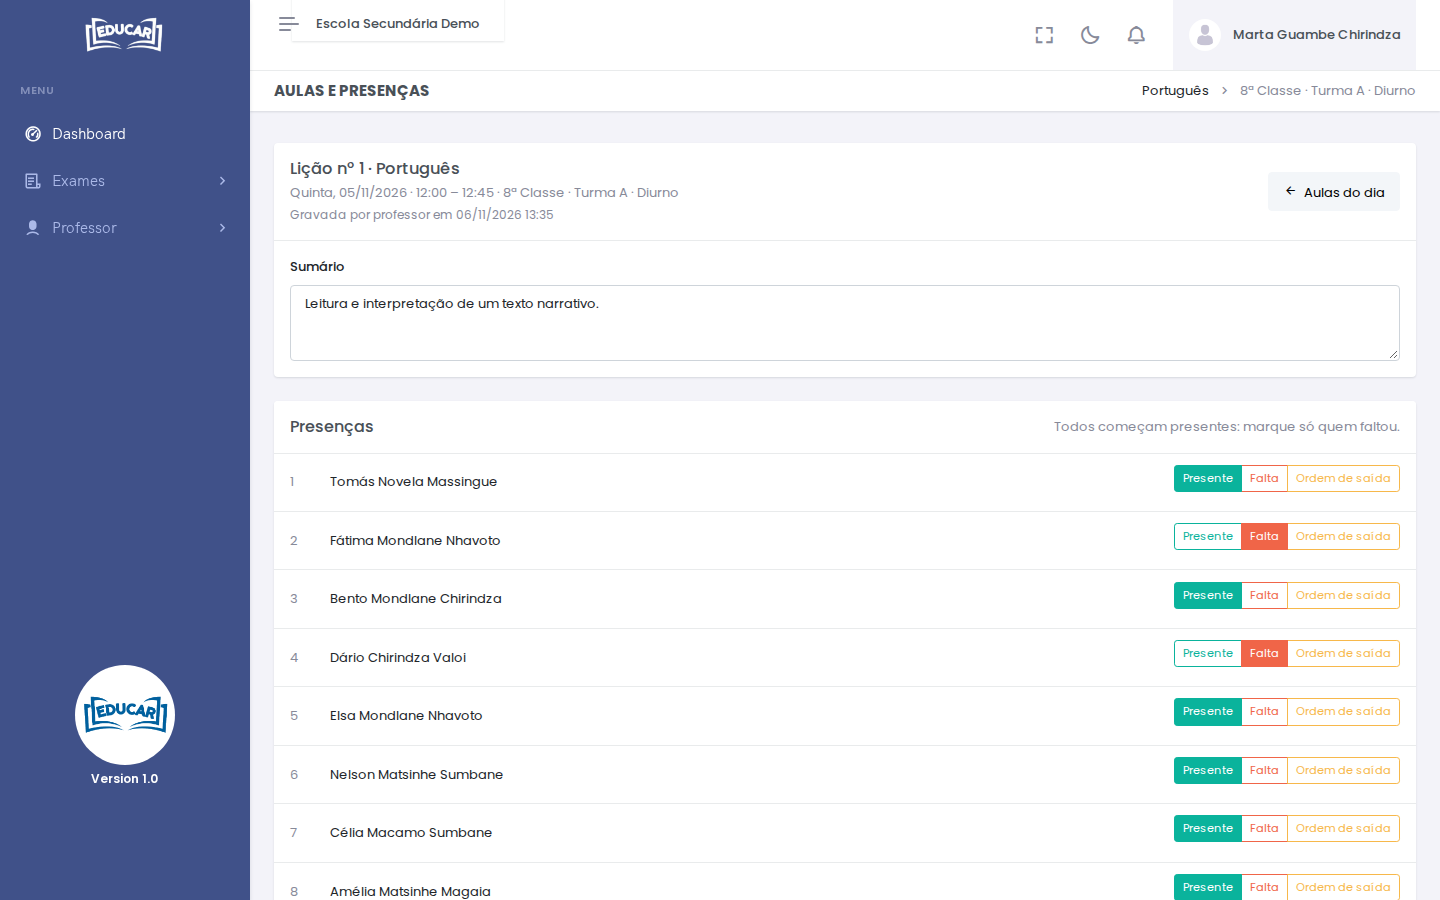
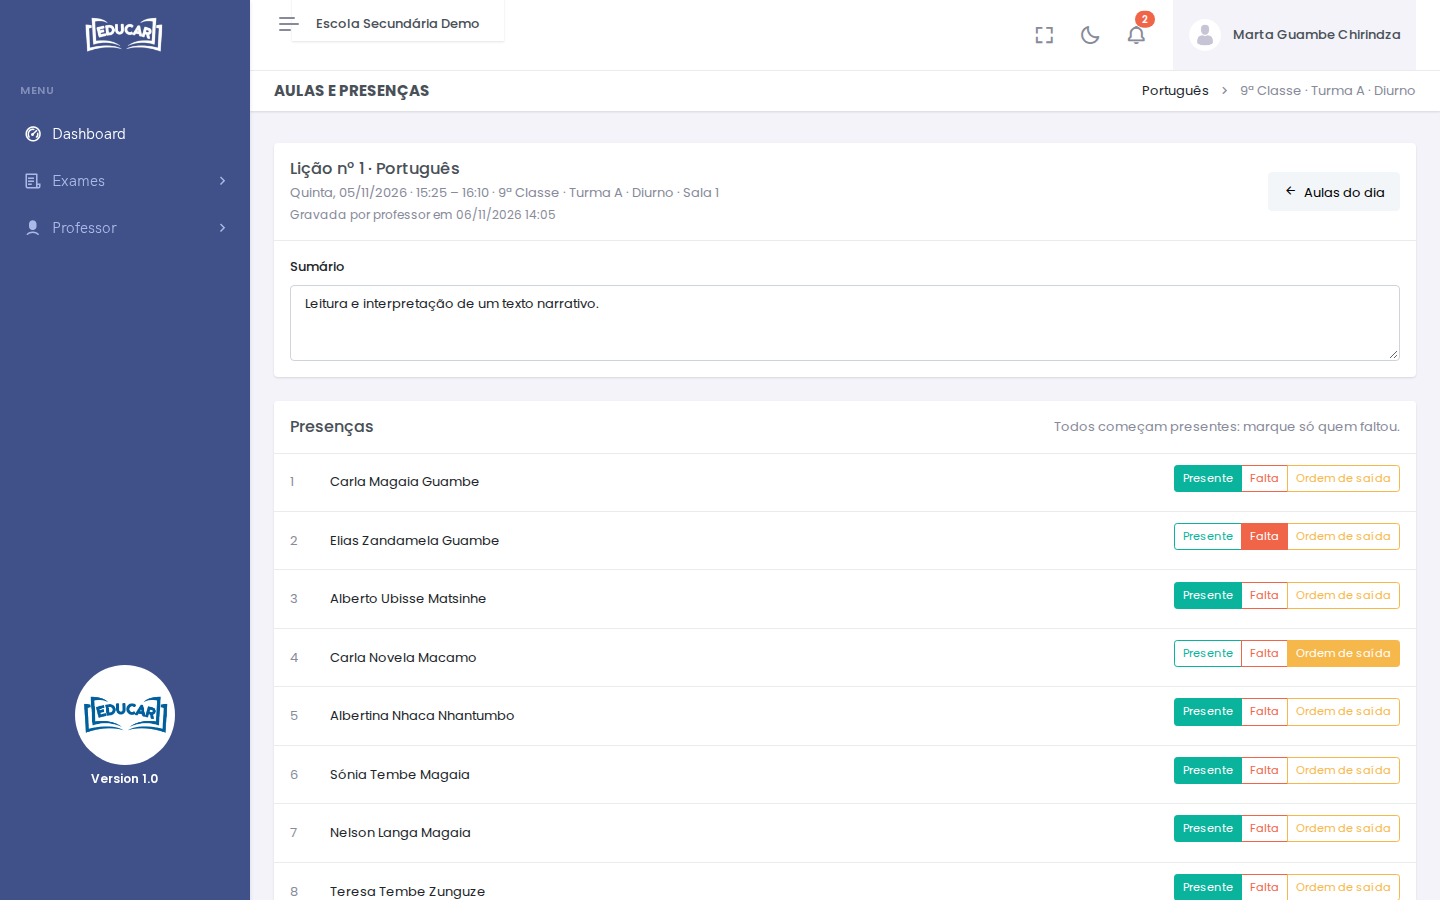
Faltas: limits, justification in the student file and class director view

diff --git a/docs/menus/matricula-e-turmas/pesquisar-turma.md b/docs/menus/matricula-e-turmas/pesquisar-turma.md
@@ -27,6 +27,7 @@ O topo mostra os dados do aluno e o resumo das contas: por pagar, em atraso, val
 | **Pagamentos** | Pagamentos feitos, com o recibo |
 | **Documentos** | Pedidos de documentos do aluno (veja [Pedidos de documentos](../documentos/pedidos-de-documentos.md#registar-um-pedido)) |
 | **Situação pedagógica** | Médias dos trimestres e fecho do ano do aluno |
+| **Faltas** | Faltas do aluno no ano, por disciplina; a secretaria justifica-as (veja [Faltas do aluno](#faltas-do-aluno)) |
 | **Encarregados** | Contas de encarregado ligadas ao aluno, para acompanhar na [app](../../primeiros-passos/app.md) (veja [Ligar um encarregado](#ligar-um-encarregado)) |
 
 ![A conta do documento na ficha do aluno](../documentos/img/ficha-pagar.png)
@@ -76,6 +77,24 @@ Para retirar o acesso, por exemplo quando o encarregado muda, use **Desligar** n
 O telemóvel de uma conta não se altera. Se o encarregado mudar de número, desligue a conta antiga e crie uma com o número novo, em cada um dos educandos.
 
 Se o encarregado se esquecer da senha, recupera-a no site do EDUCAR, em **Esqueceu a senha?**, com o telemóvel no lugar do código e os seus dados pessoais. A app ainda não tem esta opção.
+
+### Faltas do aluno
+
+O separador **Faltas** mostra as faltas que os professores marcaram em [Aulas e presenças](../professor/aulas-e-presencas.md): os totais, as faltas por disciplina com os [limites da escola](../configuracoes/faltas.md), e a lista de cada falta com a data, a hora e a disciplina.
+
+![Faltas na ficha do aluno](img/ficha-faltas.png)
+
+Para justificar, com o atestado ou o motivo que a família apresentar:
+
+1. Marque as faltas a justificar.
+2. Escreva o **Motivo**, por exemplo `Atestado médico`.
+3. Use **Justificar as escolhidas**.
+
+As faltas justificadas deixam de contar para os limites. As ordens de saída não se justificam. Para desfazer, marque as faltas e use **Tirar a justificação**.
+
+Só a secretaria justifica. A direcção vê as faltas, mas não as justifica.
+
+Se o professor corrigir a aula e mudar uma falta para ordem de saída, ou ao contrário, essa falta perde a justificação.
 
 ## Horário da turma
 

diff --git a/docs/menus/configuracoes/faltas.md b/docs/menus/configuracoes/faltas.md
@@ -1,0 +1,32 @@
+# Faltas
+
+**Menu:** Configurações › Faltas
+**Quem vê:** Director da escola, Director pedagógico
+
+Os limites de faltas da escola e os avisos aos encarregados. Os professores marcam as faltas em [Aulas e presenças](../professor/aulas-e-presencas.md): cada tempo de aula conta como uma presença.
+
+![Limites de faltas](img/faltas.png)
+
+## Limites
+
+- **Limite por disciplina:** quantas faltas um aluno pode ter numa disciplina durante o ano lectivo.
+- **Limite total:** quantas faltas pode ter em todas as disciplinas juntas.
+
+Deixe vazio, ou 0, para não ter limite. O limite total não pode ser menor do que o limite por disciplina.
+
+Os limites contam só as faltas **por justificar**, incluindo as ordens de saída. As faltas que a secretaria justifica, na [ficha do aluno](../matricula-e-turmas/pesquisar-turma.md#faltas-do-aluno), não contam.
+
+## O que acontece no limite
+
+Quando um aluno atinge um limite, recebem um aviso:
+
+- o director de turma;
+- o aluno e os encarregados, na app e por email, se a escola tiver o email ligado em [Avisos e Lembretes](avisos-e-lembretes.md).
+
+O aluno **não reprova** por isso: o aviso serve para a escola e a família agirem a tempo.
+
+A partir de 80% do limite, o aluno aparece como **Perto do limite** na ficha e na [direcção de turma](../professor/direccao-de-turma.md).
+
+## Aviso a cada falta
+
+Com **Avisar o aluno e os encarregados a cada falta** ligado, a família recebe um aviso sempre que o professor marca uma falta ou uma ordem de saída. Numa aula de dois tempos seguidos, segue um só aviso.

diff --git a/docs/menus/professor/direccao-de-turma.md b/docs/menus/professor/direccao-de-turma.md
@@ -3,13 +3,18 @@
 **Menu:** Professor › Direcção de turma
 **Quem vê:** Professor
 
-As turmas de que o professor é director de turma este ano: os alunos e as pautas trimestrais.
+As turmas de que o professor é director de turma este ano: as pautas trimestrais, as faltas e os alunos.
 
 ![Direcção de turma](img/direccao-de-turma.png)
 
 Cada cartão mostra a turma, quantas disciplinas tem e se alguma está **sem professor**. Escolha uma turma:
 
 - **Pautas**: abre a pauta do 1º, 2º ou 3º trimestre da turma, com todas as disciplinas;
+- **Faltas**: as faltas de cada aluno, por justificar e justificadas, a disciplina com mais faltas e quem está **Perto do limite** ou **No limite** (veja [Faltas](../configuracoes/faltas.md));
 - **Alunos**: a lista dos alunos da turma.
+
+![Faltas da turma](img/direccao-de-turma-faltas.png)
+
+Quando um aluno da turma atinge um limite de faltas, o director de turma recebe um aviso.
 
 A turma aparece aqui quando a direcção indica o professor como director de turma, no horário da turma.

diff --git a/docs/perfis/direccao.md b/docs/perfis/direccao.md
@@ -14,6 +14,7 @@ Organiza o ano lectivo, as turmas, as pautas e os exames, e acompanha os relató
 | Configurações | [Etapas dos Documentos](../menus/configuracoes/etapas-dos-documentos.md) |
 | Configurações | [Modelos dos Documentos](../menus/configuracoes/modelos-dos-documentos.md) |
 | Configurações | [Avisos e Lembretes](../menus/configuracoes/avisos-e-lembretes.md) |
+| Configurações | [Faltas](../menus/configuracoes/faltas.md) |
 | Configurações | [Períodos Leccionados](../menus/configuracoes/periodos-leccionados.md) |
 | Configurações | [Professores por Turma](../menus/configuracoes/professores-por-turma.md) |
 | Plano Curricular | [Grade Curricular](../menus/plano-curricular/grade-curricular.md) |

diff --git a/docs/menus/configuracoes/index.md b/docs/menus/configuracoes/index.md
@@ -8,5 +8,6 @@
 | [Etapas dos Documentos](etapas-dos-documentos.md) | Director da escola, Director pedagógico |
 | [Modelos dos Documentos](modelos-dos-documentos.md) | Director da escola, Director pedagógico |
 | [Avisos e Lembretes](avisos-e-lembretes.md) | Director da escola, Director pedagógico |
+| [Faltas](faltas.md) | Director da escola, Director pedagógico |
 | [Períodos Leccionados](periodos-leccionados.md) | Director da escola, Director pedagógico |
 | [Professores por Turma](professores-por-turma.md) | Director da escola, Director pedagógico |
